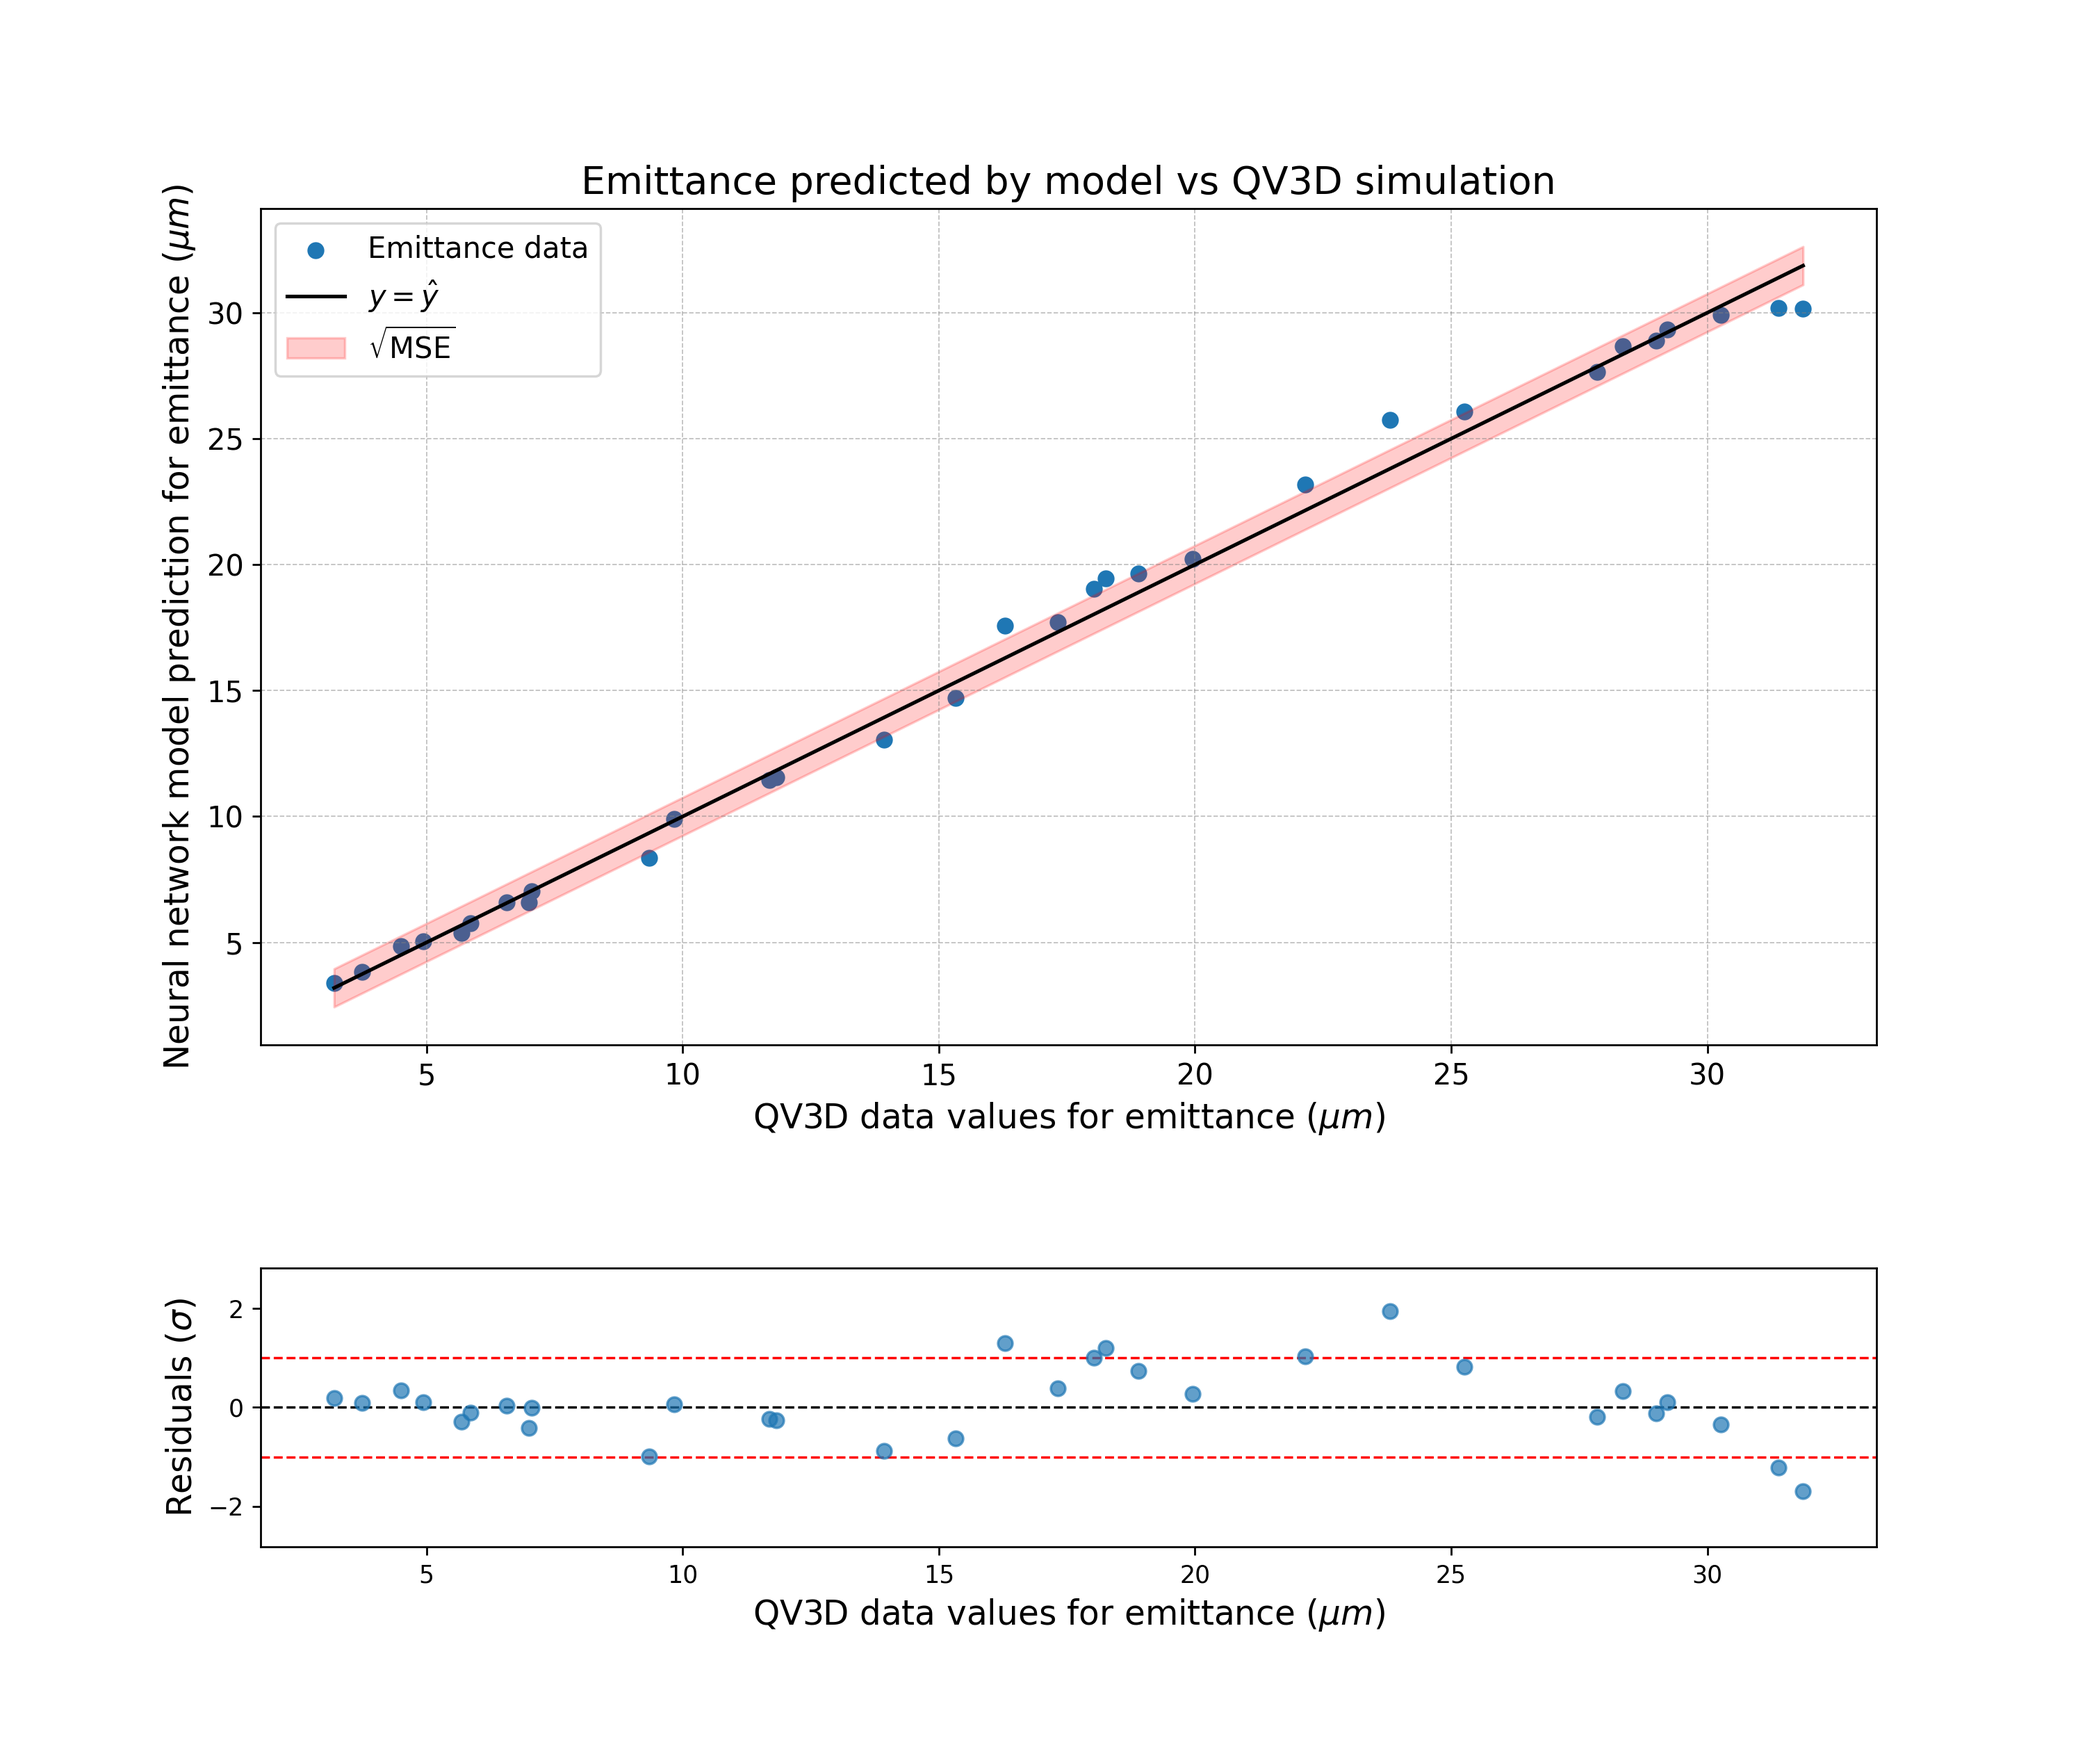
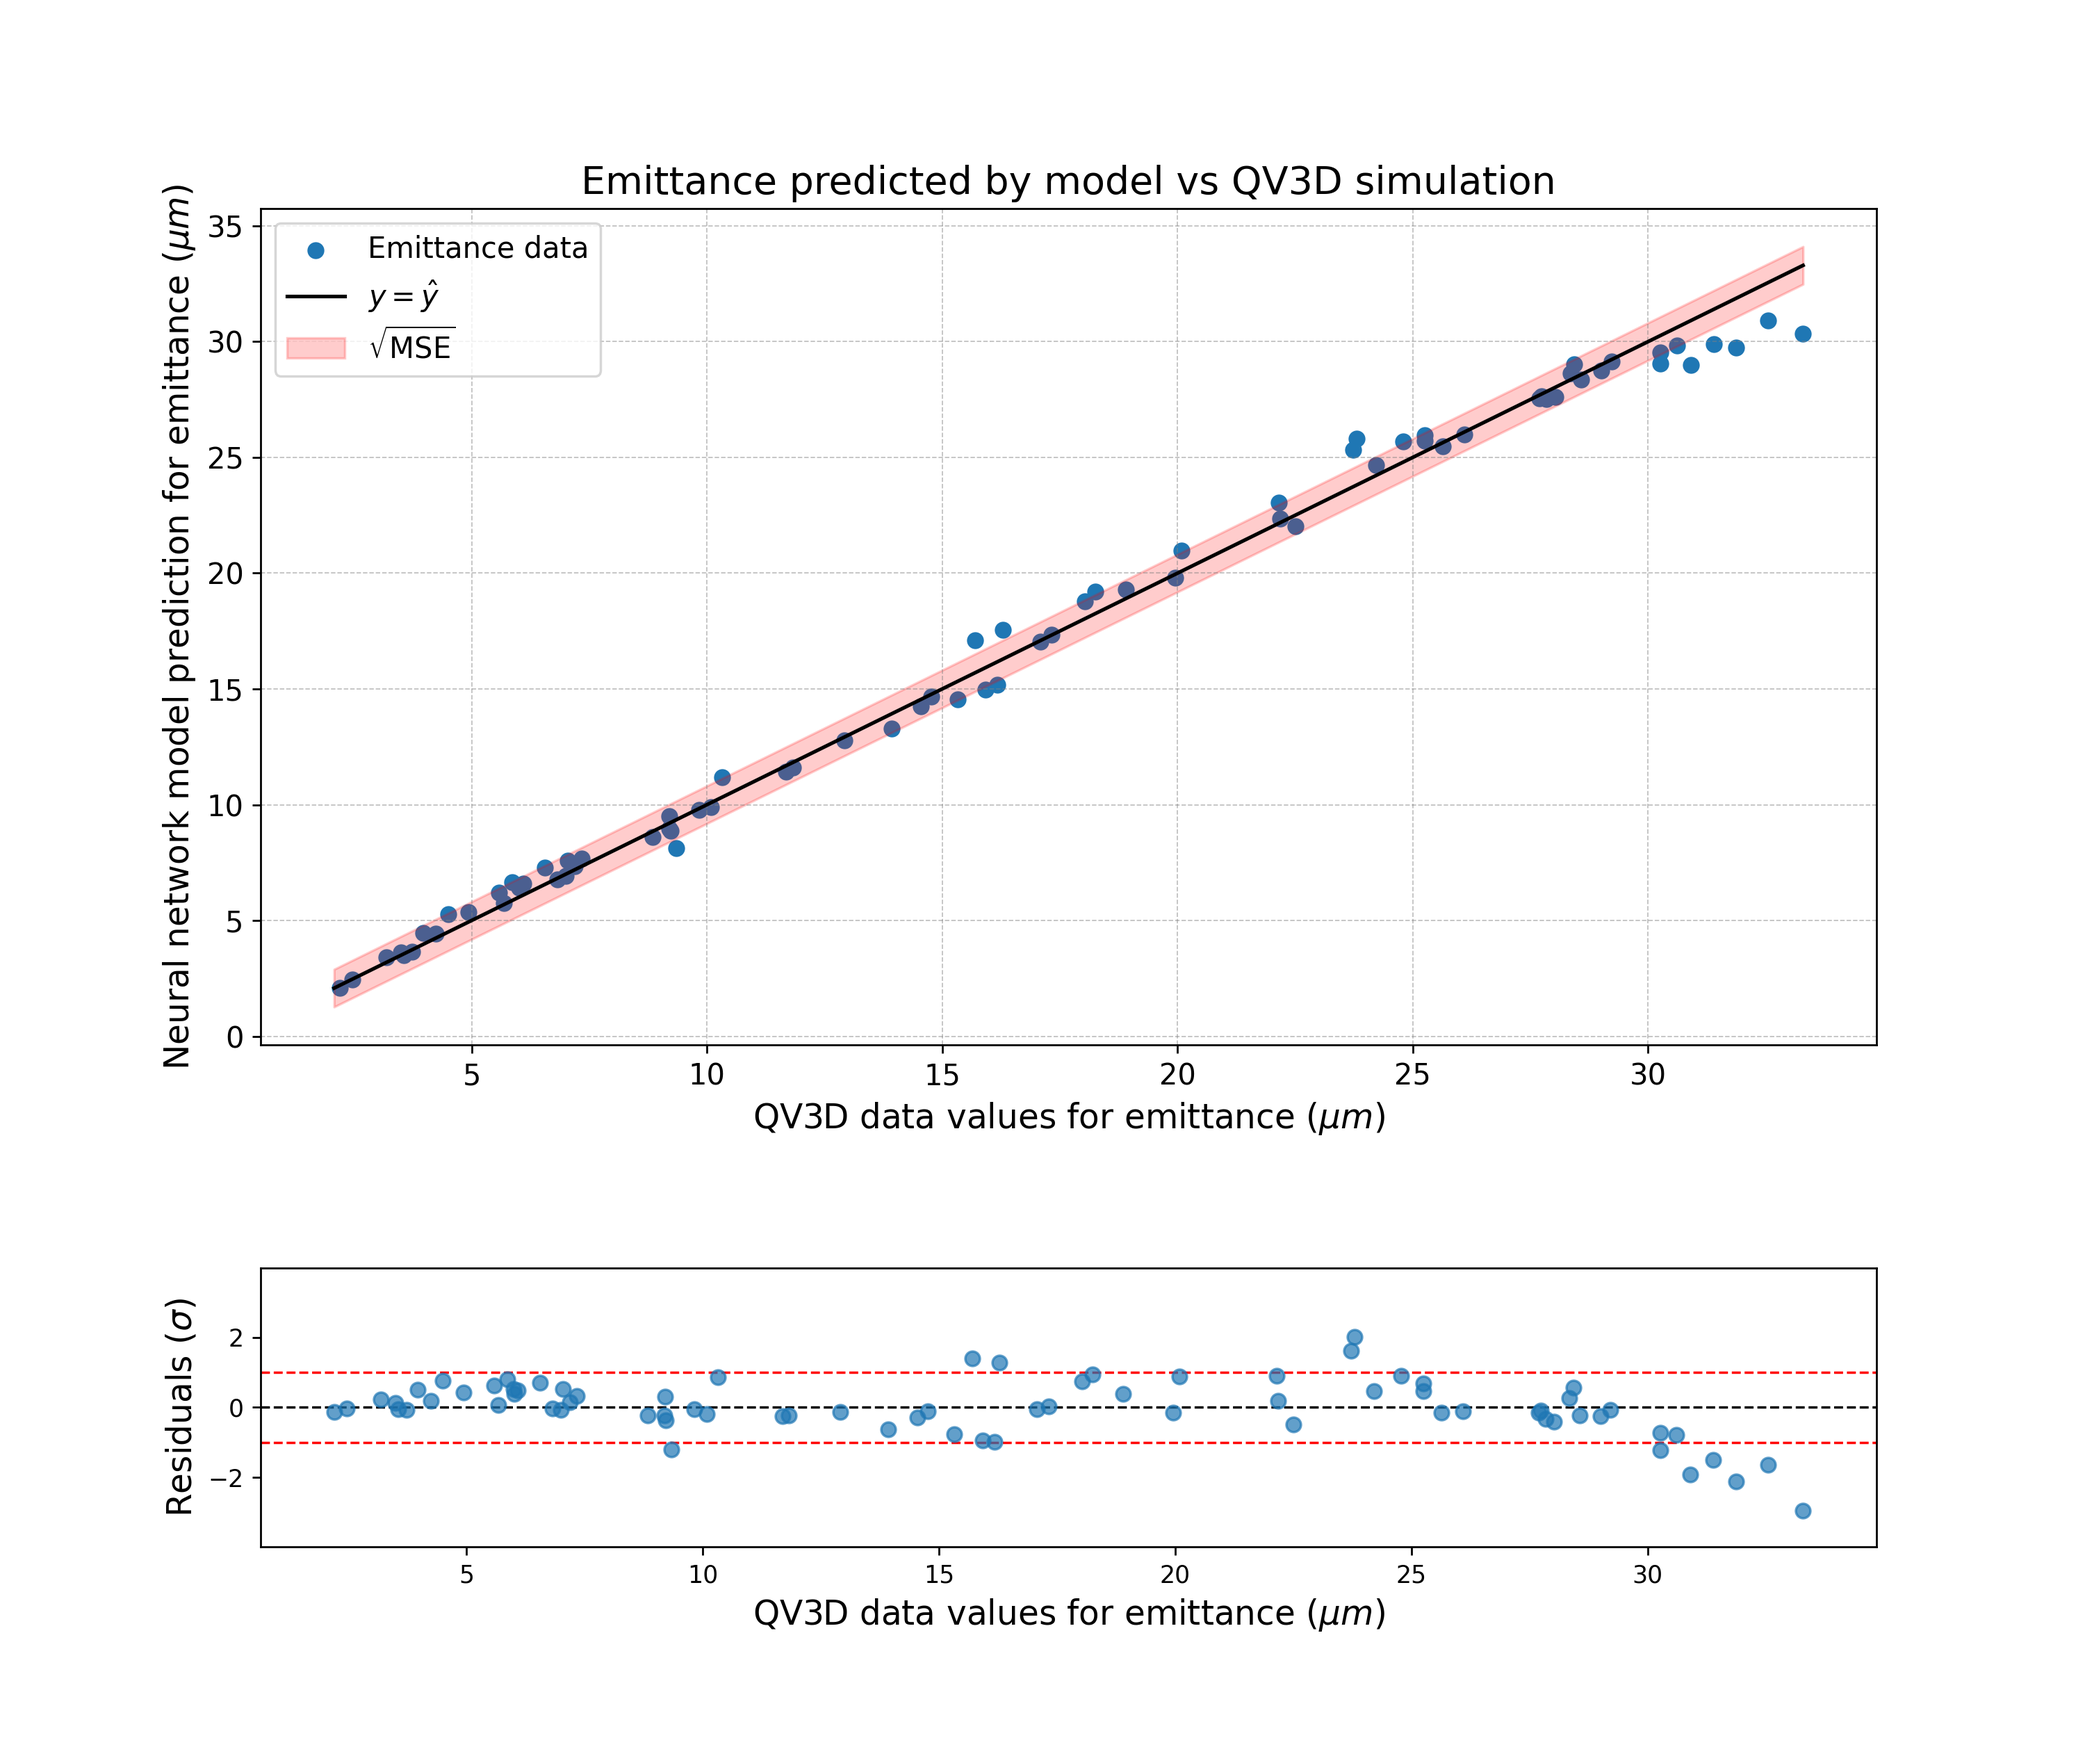
Playing with test size

diff --git a/Machine Learning/neural_network_1st_attempt.py b/Machine Learning/neural_network_1st_attempt.py
@@ -54,7 +54,7 @@ dataset = EmittanceDataset(X, y)
 dataloader = DataLoader(dataset, batch_size=2, shuffle=True)  # Batch size = 2
 
 # Split data into training and test sets (80% train, 20% test)
-X_train, X_test, y_train, y_test = train_test_split(X, y, test_size=0.2, random_state=42)
+X_train, X_test, y_train, y_test = train_test_split(X, y, test_size=0.5, random_state=42)
 
 # Initialize a scaler
 scaler = StandardScaler()
